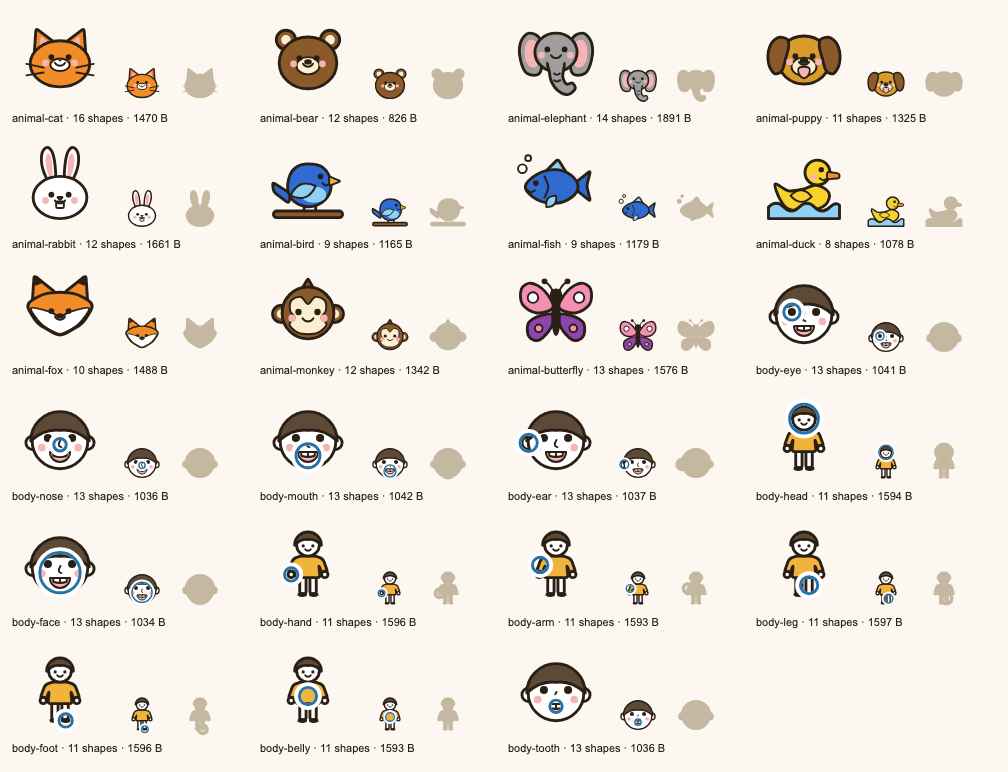
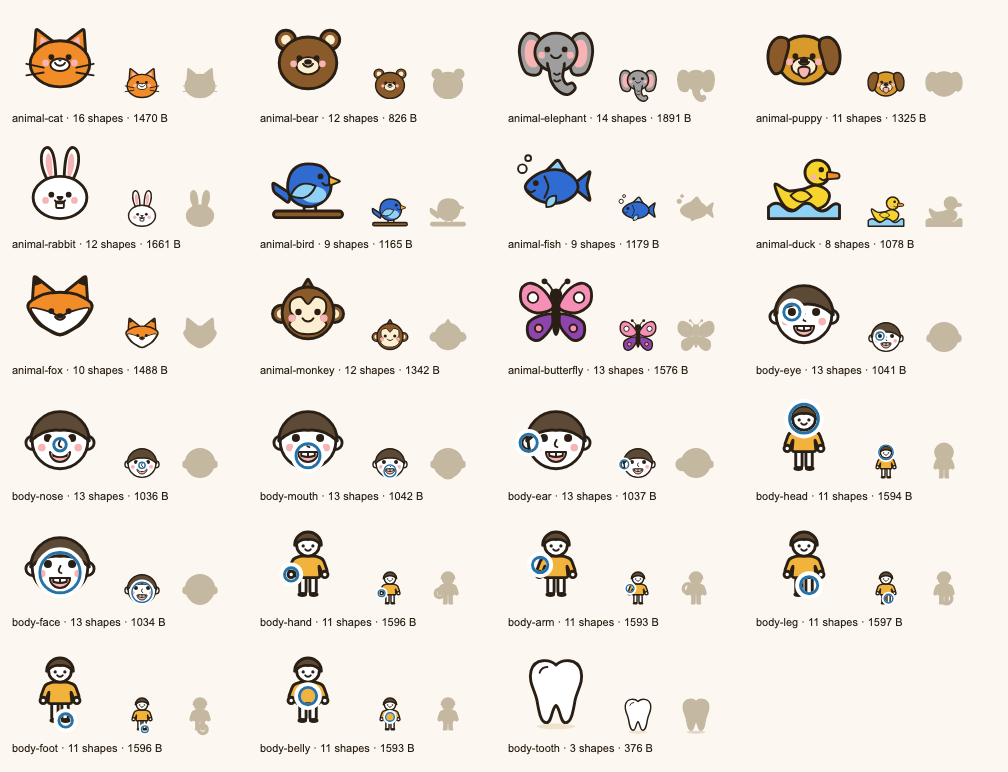
fix(design-system): draw the tooth on its own as a molar, so no ring hides the smile (F-VOC-002 W-4)
On the zoomed head the tooth ring and its paper halo covered the whole
smile, so the face read as a pacifier in the mouth (C5, D1) and the two
teeth were not visible at 48 px. body-tooth is now a paper molar with two
roots, a shine line and a ground shadow, with no ring and no face.
BODY_ANCHORS holds the eleven ringed parts (RINGED_BODY_PARTS), and a test
keeps the bottom of the smile clear of every ring and halo. Review sheet
re-rendered.

Changed region(s): [[0.5228, 0.8394, 0.7073, 0.9948]]

diff --git a/packages/design-system/src/word-art/__tests__/generated.test.ts b/packages/design-system/src/word-art/__tests__/generated.test.ts
@@ -1,5 +1,5 @@
 import { describe, expect, it } from 'vitest';
-import { BODY_ANCHORS, BODY_PARTS, bodyGlyphs, bodyPart, ring } from '../generated/body';
+import { BODY_ANCHORS, BODY_PARTS, RINGED_BODY_PARTS, bodyGlyphs, bodyPart, ring } from '../generated/body';
 import { COLOR_SWATCHES, STICKER_SCALE, SWATCH_RECT, colorGlyphs, swatch } from '../generated/color';
 import { COUNT_VALUES, count, countGlyphs } from '../generated/count';
 import { FIGURE_HAND, figure, figureTop, marker, siblings } from '../generated/figure';
@@ -266,12 +266,34 @@ describe('body parts (§3.6.3)', () => {
     expect(BODY_PARTS).toEqual(['eye', 'nose', 'mouth', 'ear', 'head', 'face', 'hand', 'arm', 'leg', 'foot', 'belly', 'tooth']);
   });
 
-  it('zooms on the head for eye, nose, mouth, ear, tooth and face, and shows the whole figure otherwise', () => {
-    const head = BODY_PARTS.filter((p) => BODY_ANCHORS[p].view === 'head');
-    expect(head.sort()).toEqual(['ear', 'eye', 'face', 'mouth', 'nose', 'tooth']);
+  it('zooms on the head for eye, nose, mouth, ear and face, and shows the whole figure otherwise', () => {
+    const head = RINGED_BODY_PARTS.filter((p) => BODY_ANCHORS[p].view === 'head');
+    expect(head.sort()).toEqual(['ear', 'eye', 'face', 'mouth', 'nose']);
   });
 
-  it.each(BODY_PARTS)('the %s anchor, its ring and its halo sit inside the viewBox', (part) => {
+  it('rings every part but the tooth, which is drawn on its own (W-4 review)', () => {
+    expect(RINGED_BODY_PARTS).toEqual(BODY_PARTS.filter((p) => p !== 'tooth'));
+    expect(Object.keys(BODY_ANCHORS).sort()).toEqual([...RINGED_BODY_PARTS].sort());
+  });
+
+  it('draws the tooth as a paper molar with two roots: no ring, no face, a ground shadow', () => {
+    const glyph = bodyPart('tooth');
+    expect(glyph.some((s) => s.s === 'brand.secondary' || s.s === HALO_TONE)).toBe(false);
+    expect(glyph.some((s) => s.t === 'circle' && s.f === 'text.primary')).toBe(false);
+    const outline = glyph.filter((s) => s.t === 'path' && s.f === 'surface.paper');
+    expect(outline).toHaveLength(1);
+    const box = shapeBox(outline[0]!);
+    // taller than wide, and two roots: a root tip on each side, and the outline back up between them
+    expect(box.maxY - box.minY).toBeGreaterThan(box.maxX - box.minX);
+    const points = pathPoints((outline[0] as Extract<WordArtShape, { t: 'path' }>).d);
+    const tips = points.filter(([, y]) => y >= box.maxY - 1).map(([x]) => x);
+    expect(Math.min(...tips)).toBeLessThan(45);
+    expect(Math.max(...tips)).toBeGreaterThan(55);
+    expect(points.some(([x, y]) => Math.abs(x - 50) < 1 && y < box.maxY - 12 && y > box.minY + 30)).toBe(true);
+    expect(glyph[0]).toMatchObject({ t: 'ellipse', f: 'hoya.furDark' });
+  });
+
+  it.each(RINGED_BODY_PARTS)('the %s anchor, its ring and its halo sit inside the viewBox', (part) => {
     const { x, y } = BODY_ANCHORS[part];
     const outer = (ring(x, y, BODY_ANCHORS[part].r)[0] as Extract<WordArtShape, { t: 'circle' }>).r + HALO_WIDTH / 2;
     expect(x - outer).toBeGreaterThanOrEqual(0);
@@ -310,11 +332,23 @@ describe('body parts (§3.6.3)', () => {
     expect(halo!.r - HALO_WIDTH / 2).toBeCloseTo(blue!.r - 1.5, 5);
   });
 
-  it.each(BODY_PARTS)('%s ends with its ring at its anchor, and the figure smiles', (part) => {
+  it.each(RINGED_BODY_PARTS)('%s ends with its ring at its anchor, and the figure smiles', (part) => {
     const glyph = bodyPart(part);
     const { x, y, r } = BODY_ANCHORS[part];
     expect(glyph.slice(-2)).toEqual(ring(x, y, r));
     expect(glyph.some(isSmile)).toBe(true);
+  });
+
+  it.each(RINGED_BODY_PARTS)('%s keeps the bottom of the smile clear of its ring and the ring halo (C5)', (part) => {
+    const glyph = bodyPart(part);
+    const { x, y, r } = BODY_ANCHORS[part];
+    const smile = glyph.find(isSmile) as Extract<WordArtShape, { t: 'path' }>;
+    const bottom = pathPoints(smile.d).reduce((a, b) => (b[1] > a[1] ? b : a));
+    const d = Math.hypot(bottom[0] - x, bottom[1] - y);
+    // inside the ring's inner edge (the ring frames the smile) or past the halo's outer edge
+    const inner = r - 1.5 - 1;
+    const outer = r + 1.5 + (HALO_WIDTH - 3) + 1;
+    expect(d < inner || d > outer, `${part}: smile bottom at ${d.toFixed(1)} from the ring (clear below ${inner} or above ${outer})`).toBe(true);
   });
 
   it('draws a neutral figure: paper face and limbs, hoya.fur clothes, no skin-tone fill', () => {

diff --git a/packages/design-system/src/word-art/index.ts b/packages/design-system/src/word-art/index.ts
@@ -28,8 +28,8 @@ export { HALO_TONE, HALO_WIDTH, haloOf, haloPath, outlineD } from './generated/h
 export { COLOR_SWATCHES, STICKER_SCALE, SWATCH_RECT, colorGlyphs, swatch } from './generated/color';
 export type { SwatchTone } from './generated/color';
 export { COUNT_VALUES, count, countGlyphs } from './generated/count';
-export { BODY_ANCHORS, BODY_PARTS, bodyGlyphs, bodyPart, ring } from './generated/body';
-export type { BodyAnchor, BodyPart } from './generated/body';
+export { BODY_ANCHORS, BODY_PARTS, RINGED_BODY_PARTS, bodyGlyphs, bodyPart, ring } from './generated/body';
+export type { BodyAnchor, BodyPart, RingedBodyPart } from './generated/body';
 export { FIGURE_HAND, FIGURE_MAX_HEIGHT, FIGURE_MIN_HEIGHT, figure, figureTop, marker, siblings } from './generated/figure';
 export type { FigureAccessory, FigureHair, FigureOptions, SiblingHair } from './generated/figure';
 export { WORD_ART_DEFAULT_SIZE, WORD_ART_MONO_TONE, wordArtModel } from './model';
